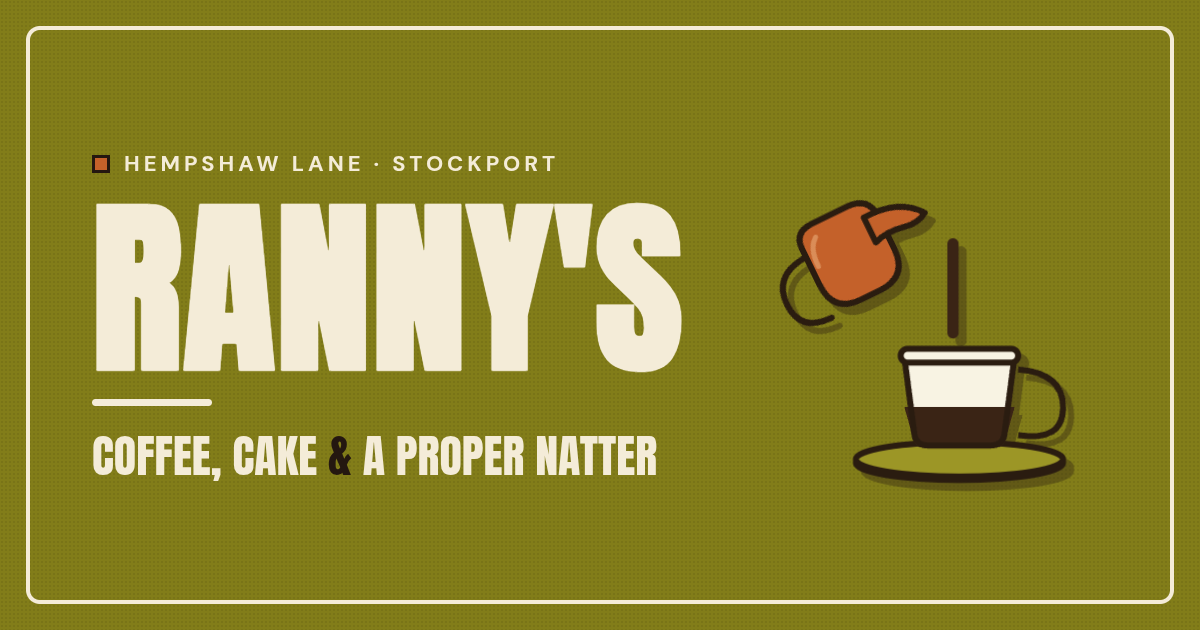
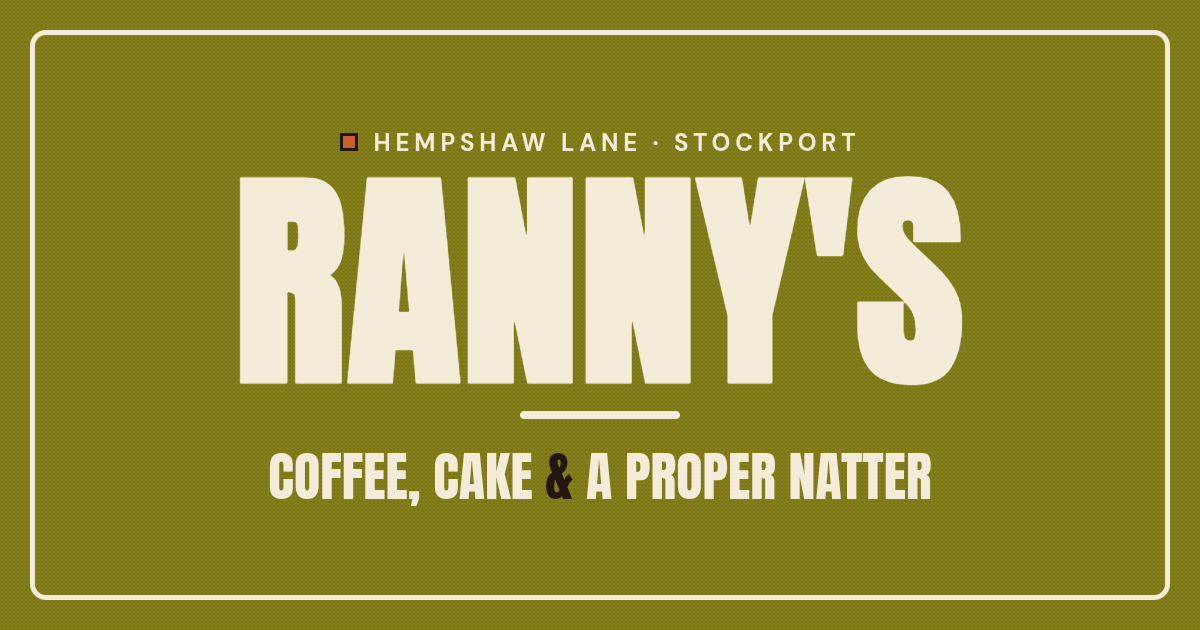
Remove the pour-coffee graphic
- Drop the animated pour SVG from the Menu and Bookings page headers (now
  full-width text), from the 3D-mug fallback, and from the share card.
- The closing mug stage is hidden by default and only revealed when the 3D
  mug mounts, so no-JS / no-WebGL visitors get a clean sign-off with no gap.
- Regenerate the share card as a centered, type-only enamel sign.
- Delete src/pour-coffee.svg and its build plumbing; tidy CSS and docs.

Changed region(s): [[0.0617, 0.2111, 0.8942, 0.8143], [0.0, 0.0302, 0.9867, 0.9651], [0.0617, 0.6333, 0.185, 0.6635]]

diff --git a/src/styles.css b/src/styles.css
@@ -279,9 +279,6 @@ body::before {
 }
 .mug-stage canvas { width: 100% !important; height: 100% !important; display: block; cursor: grab; }
 .mug-stage canvas:active { cursor: grabbing; }
-.mug-fallback { width: 86%; }
-.mug-fallback .pour { width: 100%; height: auto; display: block; }
-.mug-stage.is-3d .mug-fallback { display: none; }
 .mug-hint {
   position: absolute; bottom: 2px; left: 50%; transform: translateX(-50%);
   font-family: var(--text); font-weight: 600; font-size: 10px; letter-spacing: 0.14em;
@@ -299,7 +296,6 @@ body::before {
 }
 .closer-inner { max-width: 520px; margin: 0 auto; display: grid; justify-items: center; gap: 6px; }
 .closer .mug-stage { margin: 0 auto; }
-.closer .mug-fallback { width: 70%; }
 .closer .mug-hint { color: var(--cream); }
 .closer-line {
   font-family: var(--display);
@@ -576,9 +572,7 @@ footer .small { font-family: var(--text); font-weight: 500; font-size: 11px; let
 .page-title em { font-style: normal; color: var(--terracotta); }
 .page-lede { font-size: clamp(18px, 2vw, 22px); font-weight: 500; line-height: 1.45; color: var(--brown-mid); max-width: 520px; margin-top: 22px; }
 .page-note { font-family: var(--text); font-weight: 600; font-size: 12px; letter-spacing: 0.08em; text-transform: uppercase; color: var(--brown-mid); margin-top: 18px; }
-.pour-wrap { max-width: 320px; margin: 0 auto; }
-.pour-wrap .pour { width: 100%; height: auto; display: block; }
-@media (max-width: 820px) { .page-head-grid { grid-template-columns: 1fr; gap: 26px; } .pour-wrap { max-width: 230px; } }
+@media (max-width: 820px) { .page-head-grid { grid-template-columns: 1fr; gap: 26px; } }
 
 /* ===== Menu (enamel board) ===== */
 .menu { padding: 70px 28px 100px; background: var(--cream); }

diff --git a/src/app.js b/src/app.js
@@ -138,8 +138,9 @@ function hasWebGL() {
 }
 function maybeMountMug() {
   const stage = document.querySelector('[data-mug]');
-  if (!stage || reduceMotion || !hasWebGL()) return;   // SVG fallback stays
-  const start = () => import('./mug.js').then((m) => m.mountMug(stage)).catch(() => {});
+  if (!stage || reduceMotion || !hasWebGL()) return;   // stage stays hidden
+  stage.hidden = false;                                 // reveal now we'll mount
+  const start = () => import('./mug.js').then((m) => m.mountMug(stage)).catch(() => { stage.hidden = true; });
   if ('IntersectionObserver' in window) {
     const io = new IntersectionObserver((entries) => {
       if (entries.some((e) => e.isIntersecting)) { io.disconnect(); start(); }

diff --git a/src/pages/home.html b/src/pages/home.html
@@ -191,8 +191,7 @@
 <!-- CLOSING FLOURISH — the draggable 3D enamel mug -->
 <section class="closer">
   <div class="closer-inner">
-    <div class="mug-stage mug-stage--sm" data-mug>
-      <div class="mug-fallback">{{pourSvg}}</div>
+    <div class="mug-stage mug-stage--sm" data-mug hidden>
       <span class="mug-hint">drag to spin</span>
     </div>
     <p class="closer-line">Right then — <em>kettle's on.</em></p>

diff --git a/src/pages/menu.html b/src/pages/menu.html
@@ -7,7 +7,6 @@
       <p class="page-lede">{{shop.menuIntro}}</p>
       <p class="page-note">Prices in £. Oat, soya and coconut milk all in — no extra charge.</p>
     </div>
-    <div class="pour-wrap">{{pourSvg}}</div>
   </div>
 </section>
 

diff --git a/src/pages/bookings.html b/src/pages/bookings.html
@@ -6,7 +6,6 @@
       <h1 class="page-title">Have the <em>place.</em></h1>
       <p class="page-lede">{{shop.bookingsIntro}}</p>
     </div>
-    <div class="pour-wrap">{{pourSvg}}</div>
   </div>
 </section>
 

diff --git a/README.md b/README.md
@@ -94,7 +94,6 @@ rannys/
 │   │   └── bookings.html
 │   ├── app.js                ← progressive enhancement (live status, a11y, scroll cup)
 │   ├── mug.js                ← the lazy-loaded 3D enamel mug (three.js)
-│   ├── pour-coffee.svg       ← the animated "pouring coffee" graphic ({{pourSvg}})
 │   ├── styles.css            ← all styling (design tokens at the top)
 │   ├── 404.html              ← "not found" page
 │   └── site.webmanifest      ← PWA / home-screen metadata
@@ -112,7 +111,7 @@ page, fills the values into `src/pages/<page>.html`, wraps it in
 `src/layout.html`, and writes the finished page to `dist/`. Repeating sections
 use `{{#each list}}…{{/each}}` and `{{#if value}}…{{/if}}`; the coffee menu
 (nested sections → items) is assembled in `build.mjs`. It also generates the
-Google Maps embed, the animated pour graphic, JSON-LD for search engines, and
+Google Maps embed, JSON-LD for search engines, and
 the machine-readable opening hours the live status uses. `src/app.js` is
 minified to `dist/app.js`, and `src/mug.js` is bundled (with three.js) to
 `dist/mug.js`, which only the home hero fetches. So the *content* lives in

diff --git a/BRANDING.md b/BRANDING.md
@@ -84,6 +84,6 @@ corporate polish is not.
 
 Kept gentle and characterful — a slow "TODAY" ticker of taglines, a pulsing
 live open/closed dot, a little cup that fills as you scroll, and a draggable
-low-poly **3D enamel mug** on the home hero (lazy-loaded; falls back to a 2D
-pour graphic). Everything respects `prefers-reduced-motion`. Nothing flashy; it
-should feel hand-made.
+low-poly **3D enamel mug** at the foot of the home page (lazy-loaded; hidden
+where WebGL or motion isn't available). Everything respects
+`prefers-reduced-motion`. Nothing flashy; it should feel hand-made.
